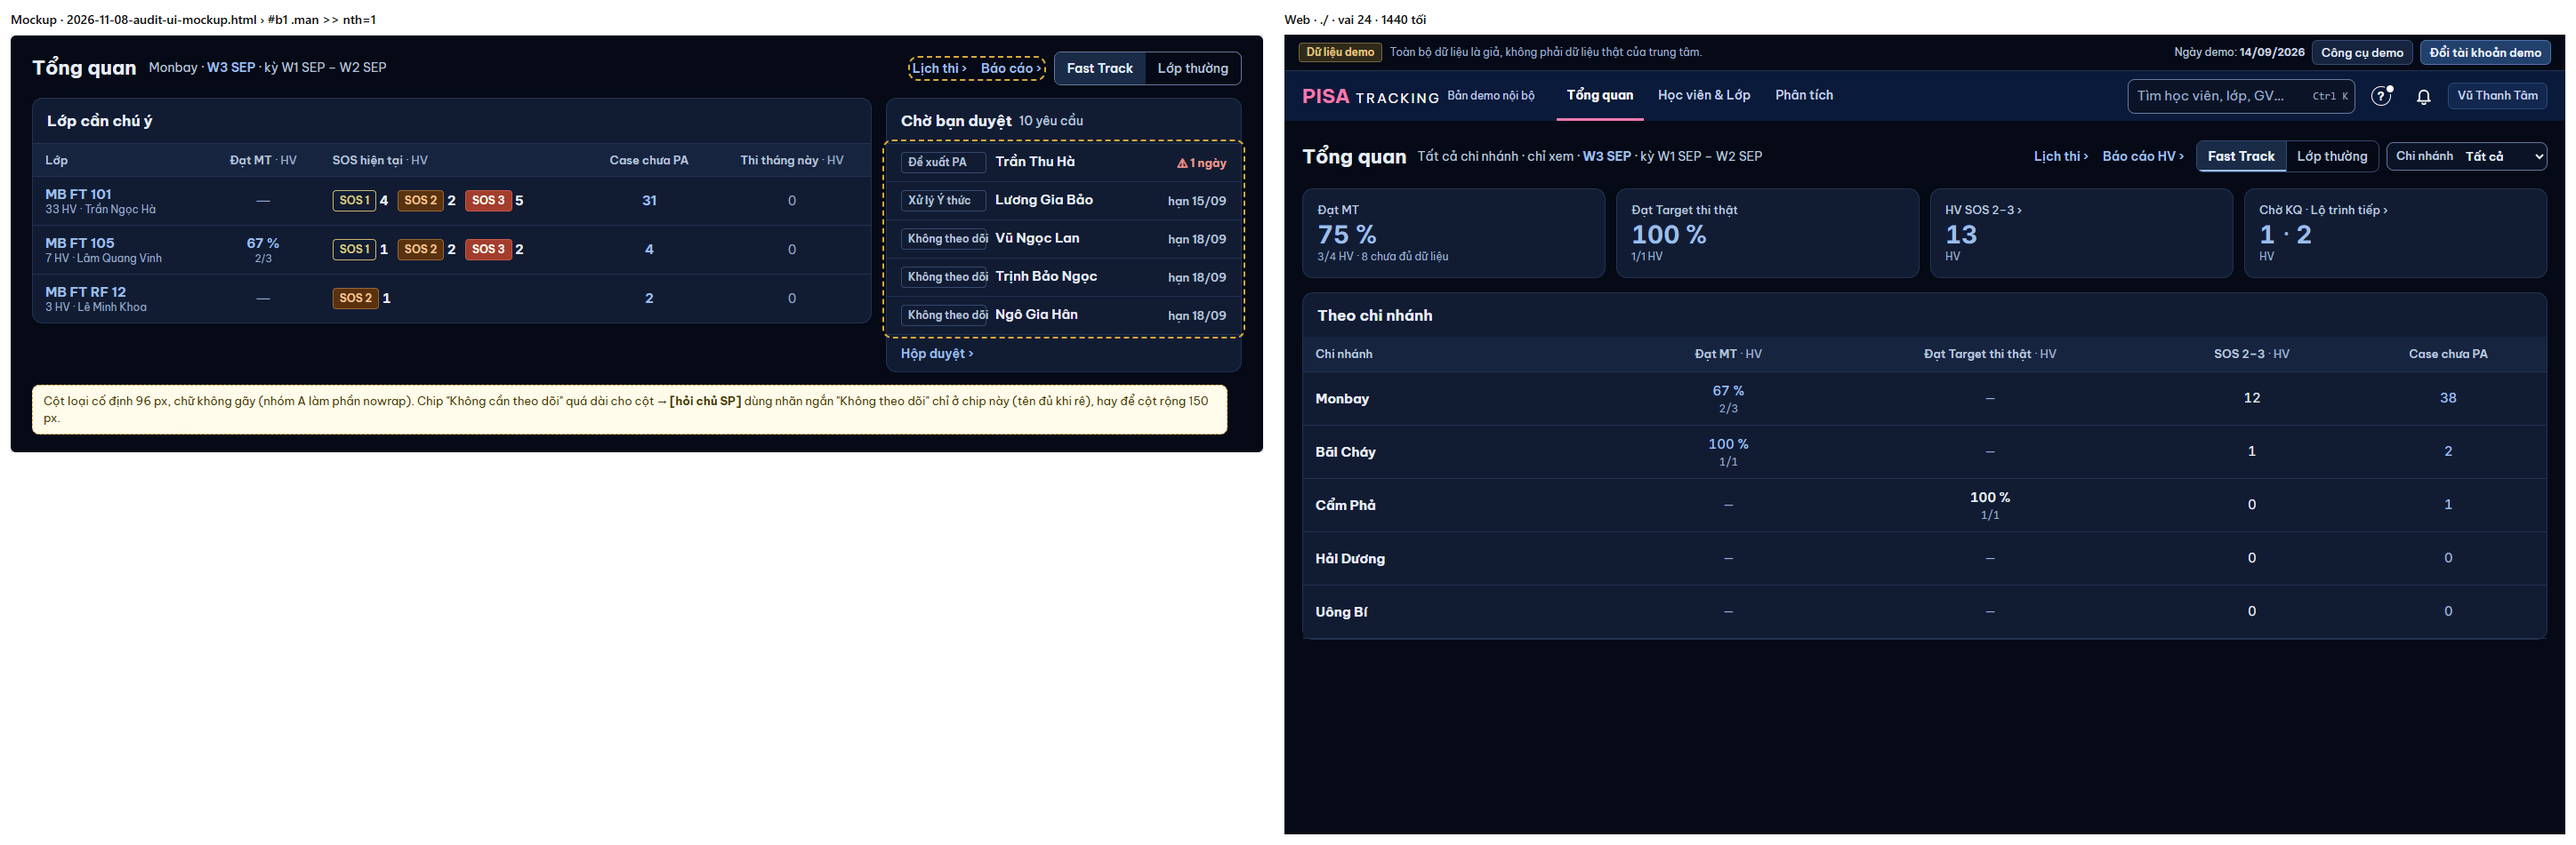
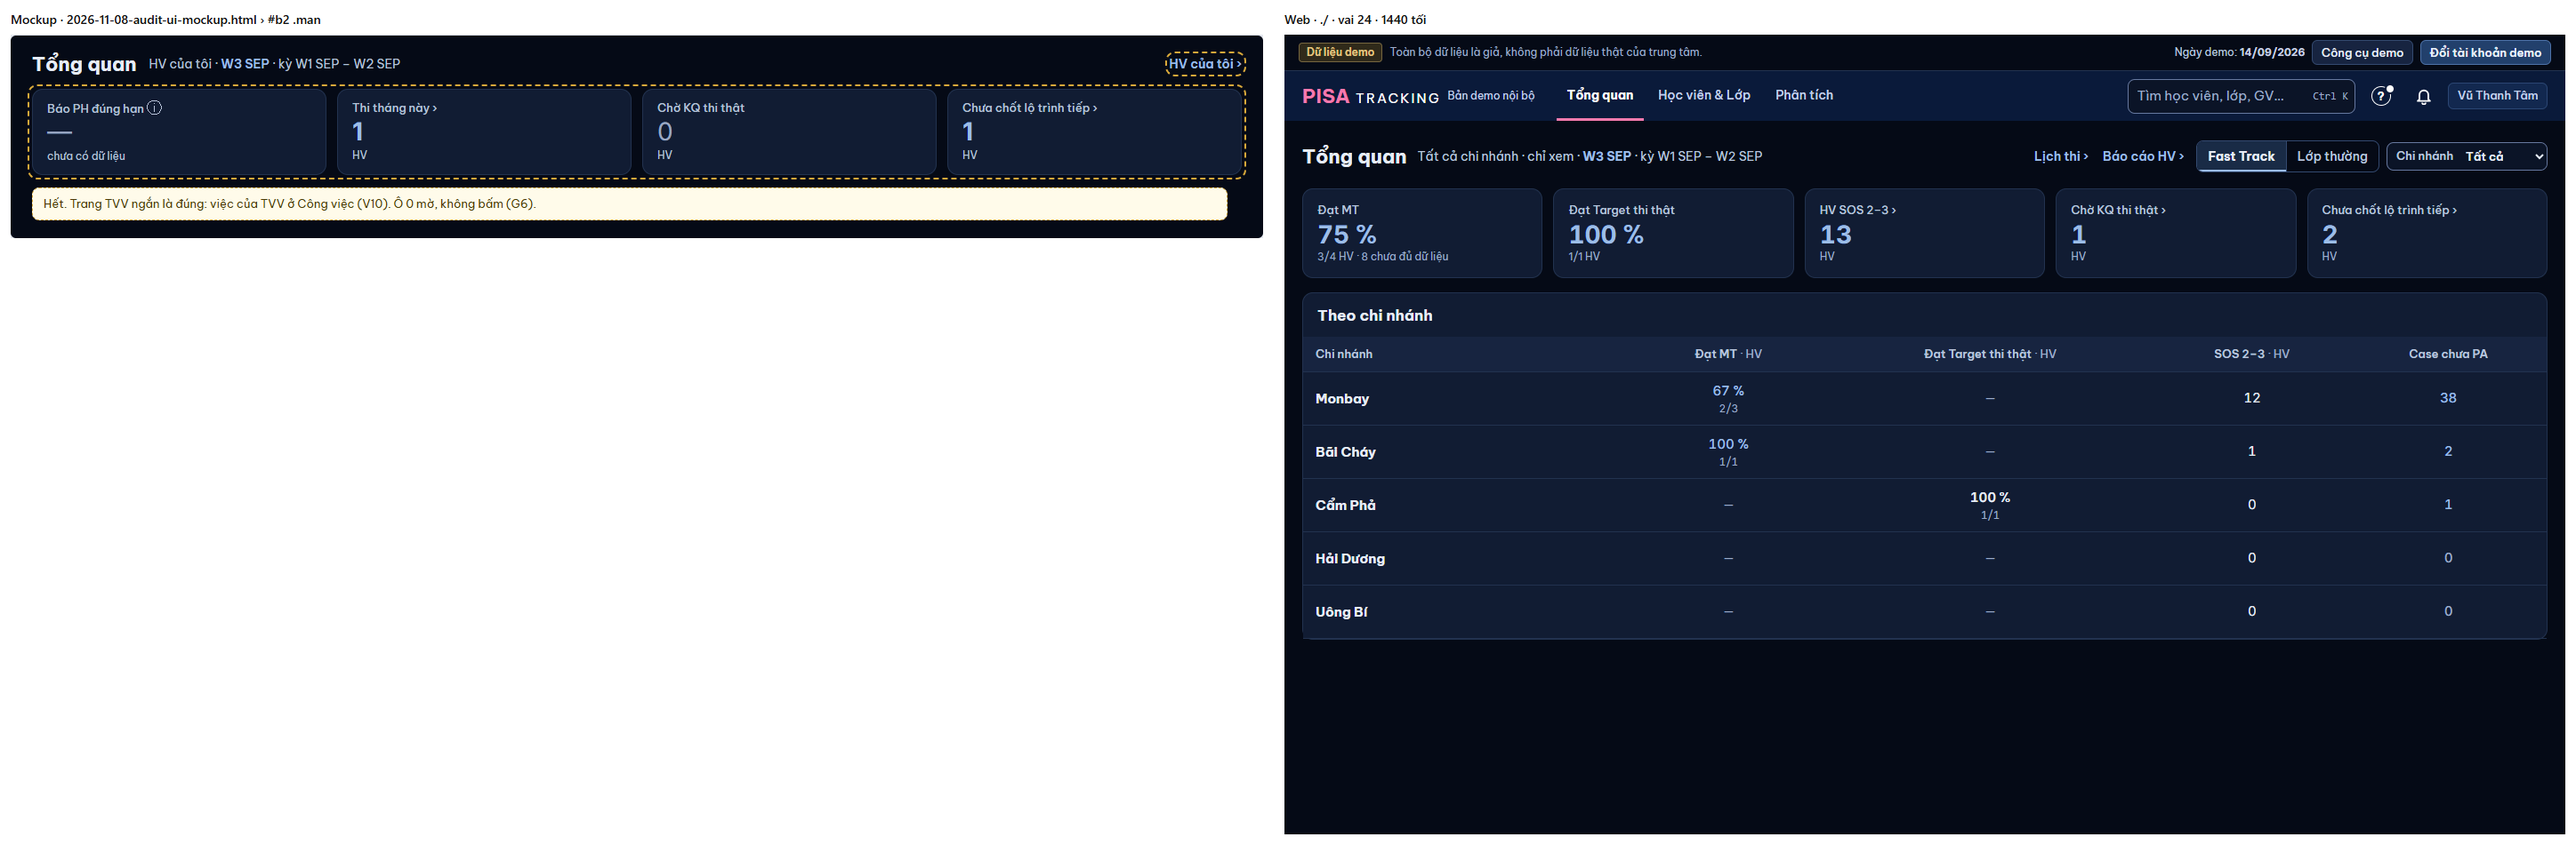
UI-TQ: CX tách ô hai số thành Chờ KQ thi thật + Chưa chốt lộ trình tiếp (PTA 08/11)

Changed region(s): [[0.0, 0.061, 0.4972, 0.5489], [0.5905, 0.2135, 0.9634, 0.3354], [0.0932, 0.0, 0.1243, 0.0305]]

diff --git a/web/src/modules/worklist/TongQuanV5.tsx b/web/src/modules/worklist/TongQuanV5.tsx
@@ -74,7 +74,8 @@ export function ChiSo({ ten, tenNgan, giaTri, mau, ky, luat }: { ten: string; /*
     <OChiSo className="ca-o max-sm:p-3" ten={<span className="inline-flex items-center gap-1.5" title={ky}>{chu}{luat && <NutLuat label={ten}>{luat}</NutLuat>}</span>} giaTri={giaTri} mau={mau} />
   );
 }
-export const DaiChiSo = ({ children }: { children: ReactNode }) => <div data-hd="tq-tom-tat" className="grid grid-cols-2 gap-2 sm:gap-3 lg:grid-cols-4 max-lg:[&>*:last-child:nth-child(odd)]:col-span-2">{children}</div>;
+/** `nam`: 5 ô một hàng ở ≥ 1024 (CX — AUDIT-UI B2 đồng bộ: mỗi ô một số). */
+export const DaiChiSo = ({ children, nam }: { children: ReactNode; nam?: boolean }) => <div data-hd="tq-tom-tat" className={`grid grid-cols-2 gap-2 sm:gap-3 ${nam ? 'lg:grid-cols-5' : 'lg:grid-cols-4'} max-lg:[&>*:last-child:nth-child(odd)]:col-span-2`}>{children}</div>;
 
 /** % to gạch chân bấm mở panel đúng tập; mẫu 0 → "Chưa có dữ liệu" (T19), không "0 %". */
 export function PhanTram({ x, nguon, tieuDe, gon, vung, className }: { x: TyLeV5 | null; nguon: string; tieuDe: string; /** Ô bảng: mẫu 0 → "—" (chữ đầy đủ cho trình đọc màn). */ gon?: boolean; vung?: string;
@@ -93,7 +94,6 @@ export const ChuaCoDl = () => (
 const SoDen = ({ n, to, className = '' }: { n: number; to: string; className?: string }) => (n > 0 ? <Link to={to} className={`${VUNG_BAM_SO} ${LOP_OSO} ${className}`}>{n}</Link> : <span className="font-normal text-faint">{n}</span>);   // AUDIT-UI C2: số 0 mờ (text-faint 400) để số thật nổi
 /** O-TQ-BAM: ô đổi trang → tên thêm "›" khi số chính bấm được (> 0). */
 const tenDen = (ten: string, n: number) => (n > 0 ? `${ten} ›` : ten);   // không ngắt: 375 xuống dòng thì "›" đi cùng chữ cuối
-const Cham = () => <span className="font-normal text-slate-500" aria-hidden>·</span>;
 
 /**
  * SOS MỘT KIỂU (mockup v8: Lớp cần chú ý, Lớp tôi chủ nhiệm, đầu Hồ sơ lớp): chip mức (MAU-MUC) + ô số HV ngoài chip + "HV" chữ phụ, mỗi mức một cụm
@@ -409,17 +409,16 @@ export function TongQuanCxV5({ d, onChiNhanh }: { d: TongQuanV5Data; onChiNhanh:
   return (
     <>
       {/* Chủ SP 23/10: CX xem điểm và tình trạng HV — kết quả trước, việc phối hợp sau. */}
-      <DaiChiSo>
+      <DaiChiSo nam>
         <ChiSo ten={t('Đạt MT')} ky={t('trong kỳ')} giaTri={ft ? <PhanTram x={d.datMt} nguon={qBc(d, '&o=dat-mt')} tieuDe={t('Đạt MT')} className="so-chinh" /> : <span className="text-slate-500">—</span>}
           mau={ft ? mauDatMt(d.datMt) : t('chỉ Fast Track')} />
         <ChiSo ten={t('Đạt Target thi thật')} ky={t('trong kỳ')} giaTri={ft ? <PhanTram x={d.thiThat} nguon={qBc(d, '&o=dat-target-thi')} tieuDe={t('Đạt Target thi thật')} className="so-chinh" /> : <span className="text-slate-500">—</span>}
           mau={ft ? tuMau(d.thiThat, t('HV')) : t('chỉ Fast Track')} />
         <ChiSo ten={tenDen(t('HV SOS 2–3'), sos23)} ky={t('hiện tại')} giaTri={<SoDen n={sos23} to={`/hoc-vien?view=sos${cn}`} className="so-chinh" />} mau={t('HV')} />
-        {/* TQ-GON (M5): cùng tên ô với TVV "Chờ KQ · Lộ trình tiếp"; (M3) dòng phụ chỉ đơn vị — tên ô đã nói hai số là gì. */}
-        {/* O-TQ-BAM: cả ô → Lộ trình tiếp (số sau); số "Chờ KQ" giữ đích riêng (lọc Đã thi). */}
-        <ChiSo ten={tenDen(t('Chờ KQ · Lộ trình tiếp'), hv.data?.dem['cho-buoc-tiep'] ?? 0)} ky={t('hiện tại')}
-          giaTri={hv.data ? <span className="inline-flex items-baseline gap-2"><SoDen n={hv.data.dem['da-thi']} to={den('da-thi')} /><Cham /><SoDen n={hv.data.dem['cho-buoc-tiep']} to={den('cho-buoc-tiep')} className="so-chinh" /></span> : '…'}
-          mau={t('HV')} />
+        {/* AUDIT-UI B2 đồng bộ (PTA 08/11): tách ô hai số "Chờ KQ · Lộ trình tiếp" thành hai ô như TVV — mỗi ô một số, cùng đích đổi trang cũ. */}
+        <ChiSo ten={tenDen(t('Chờ KQ thi thật'), hv.data?.dem['da-thi'] ?? 0)} ky={t('hiện tại')} giaTri={hv.data ? <SoDen n={hv.data.dem['da-thi']} to={den('da-thi')} className="so-chinh" /> : '…'} mau={t('HV')} />
+        <ChiSo ten={tenDen(t('Chưa chốt lộ trình tiếp'), hv.data?.dem['cho-buoc-tiep'] ?? 0)} tenNgan={tenDen(t('Chưa chốt LT tiếp'), hv.data?.dem['cho-buoc-tiep'] ?? 0)} ky={t('hiện tại')}
+          giaTri={hv.data ? <SoDen n={hv.data.dem['cho-buoc-tiep']} to={den('cho-buoc-tiep')} className="so-chinh" /> : '…'} mau={t('HV')} />
       </DaiChiSo>
       {d.chiNhanh ? <TheoChiNhanh d={d} cx onChiNhanh={onChiNhanh} /> : <LopCanChuY d={d} />}
     </>
